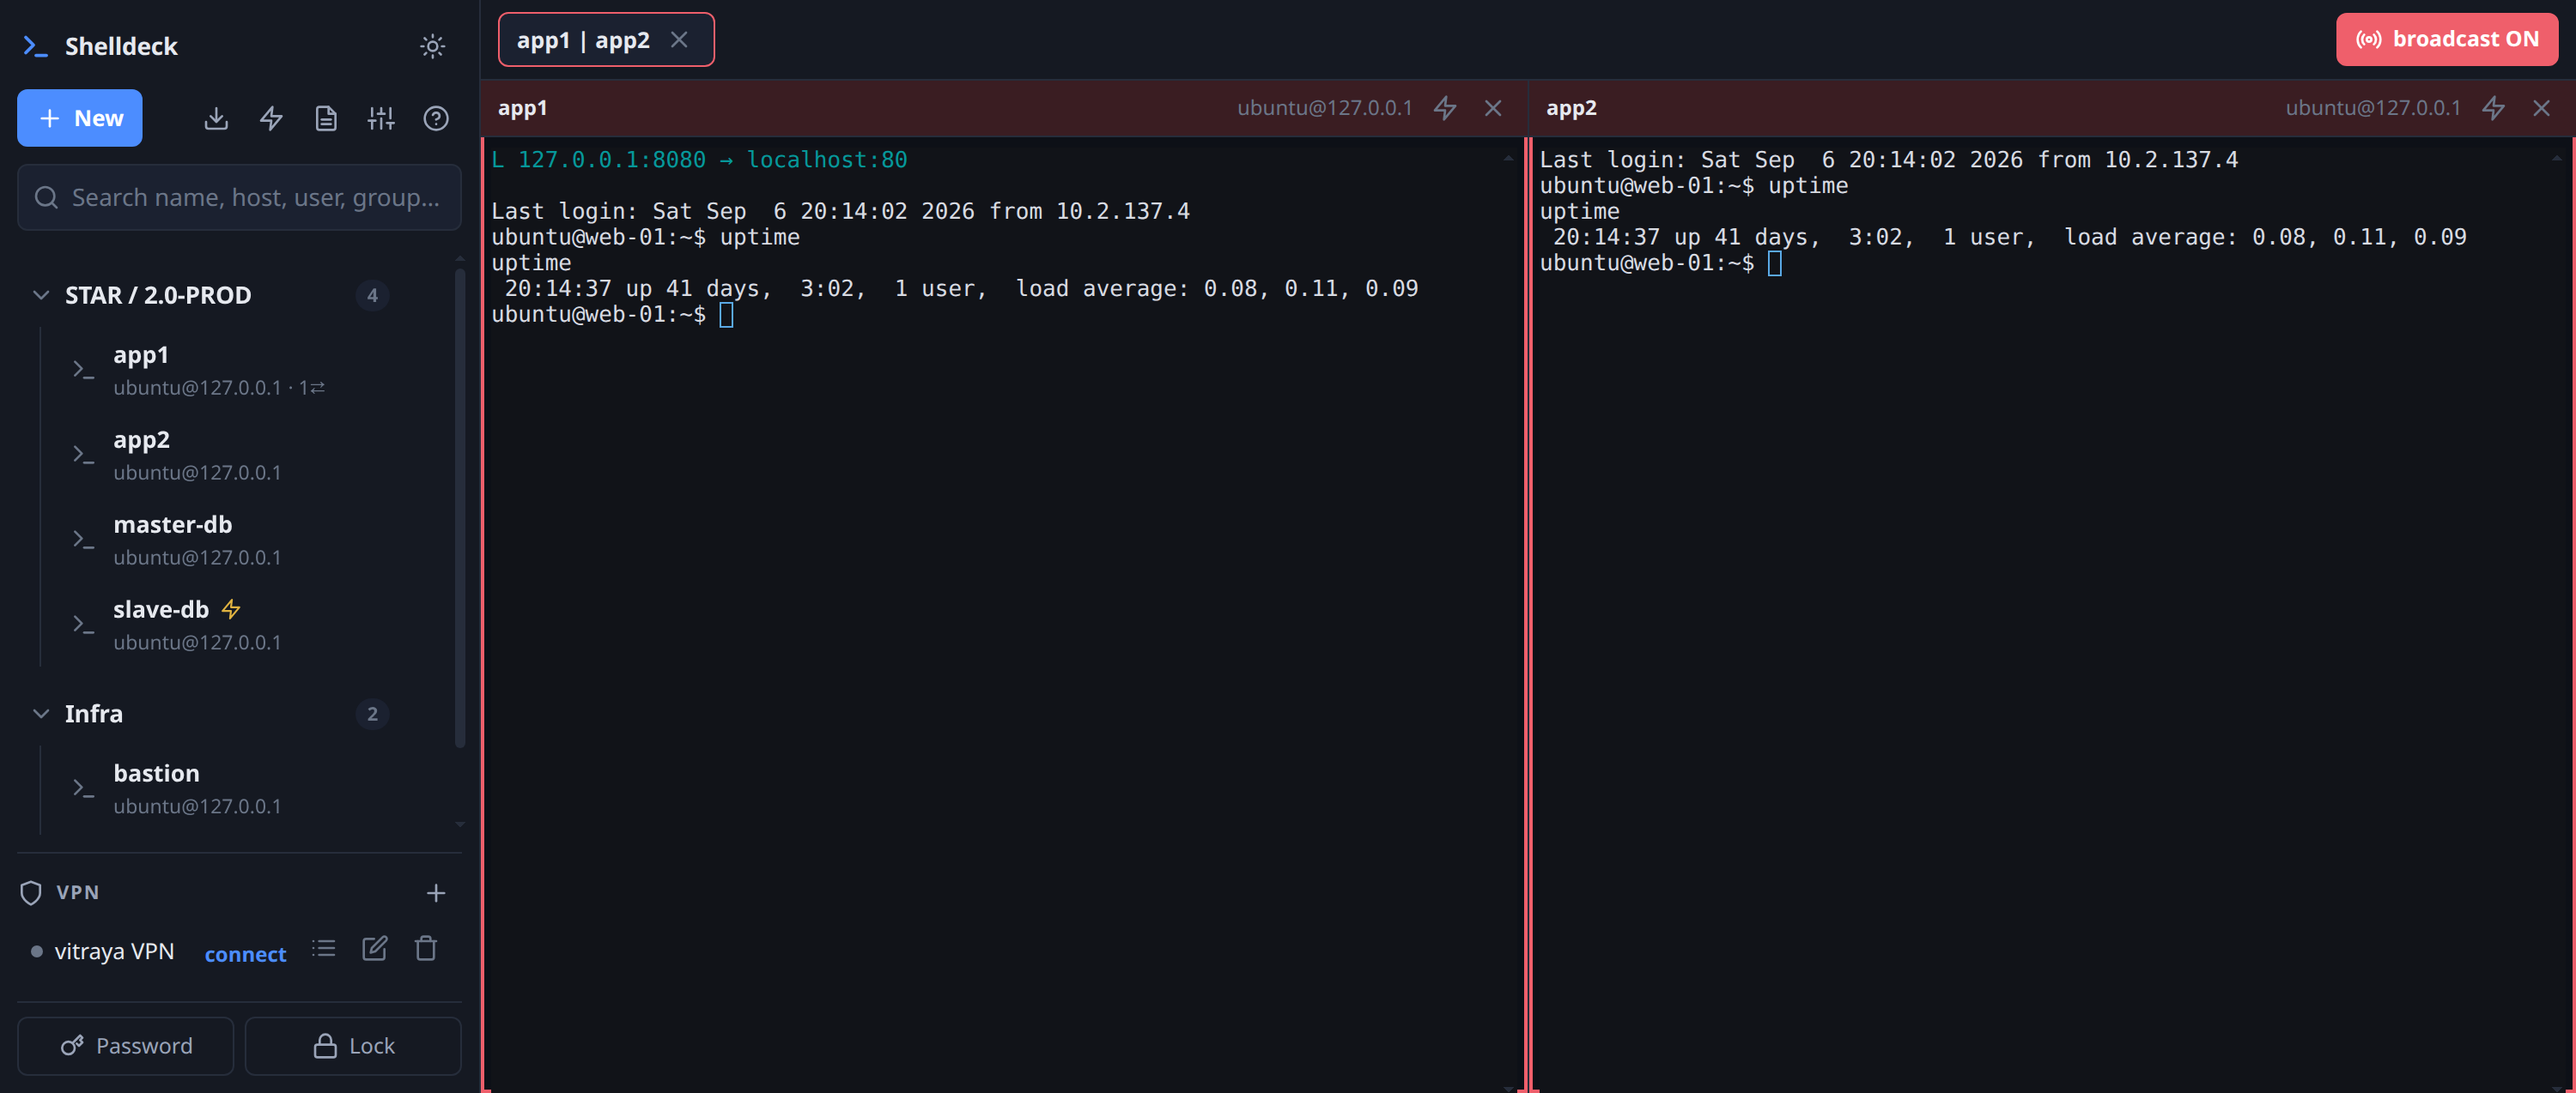
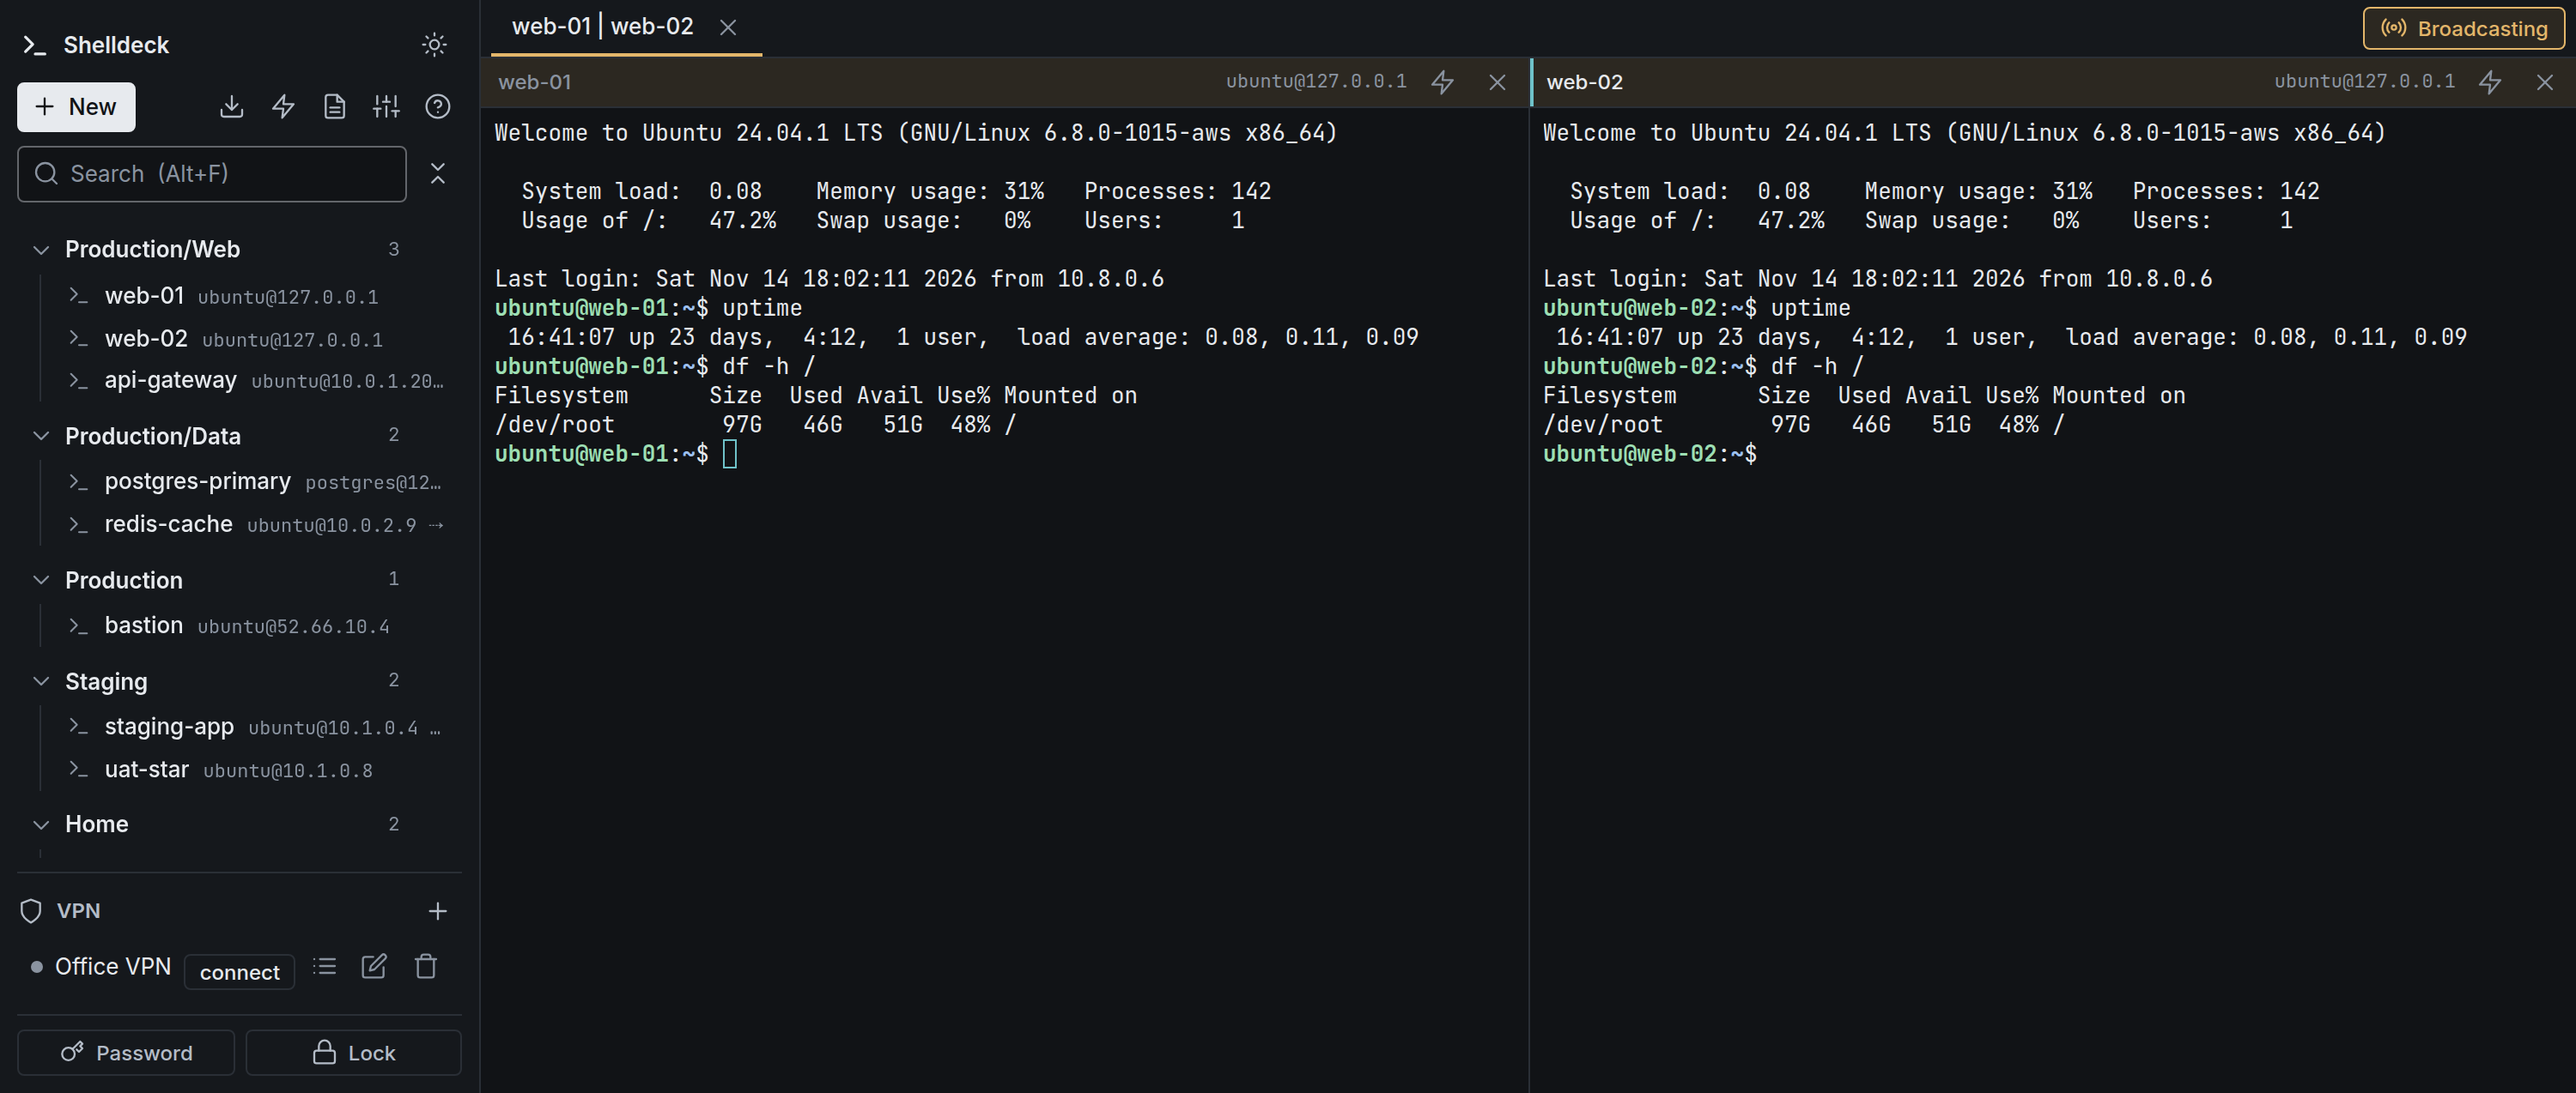
README: new screenshots, macOS and Windows in the next phase
Screenshots retaken with the new interface and bundled fonts. The
platform section and intro say Linux is released and the macOS and
Windows apps are planned for the next phase; a stars badge and a
closing request for a star.

Also: a long VPN profile name is truncated instead of running under
the Connect button.

diff --git a/shelldeck/static/app.js b/shelldeck/static/app.js
@@ -690,7 +690,7 @@ function renderVpn() {
     const on = active === "connected";
     const detail = vpnState.profile_id === v.id ? vpnState.detail : "";
     return `<div class="vpn" data-id="${v.id}">
-      <span class="vpn-name"><span class="dot ${active}"></span>${esc(v.name)}</span>
+      <span class="vpn-name"><span class="dot ${active}"></span><span>${esc(v.name)}</span></span>
       <span>
         <button class="vpn-go" data-id="${v.id}">${on || active === "connecting" ? "disconnect" : "connect"}</button>
         <button class="vpn-log" data-id="${v.id}" aria-label="VPN log for ${esc(v.name)}" title="Log">${icon("list")}</button>

diff --git a/README.md b/README.md
@@ -4,6 +4,7 @@
 [![Licence: MIT](https://img.shields.io/badge/licence-MIT-4c8dff)](LICENSE)
 [![Platform](https://img.shields.io/badge/platform-Linux-4c8dff)](#platform-support)
 [![Python](https://img.shields.io/badge/python-3.10%2B-4c8dff)](pyproject.toml)
+[![Stars](https://img.shields.io/github/stars/Gulshan07/shelldeck?style=social)](https://github.com/Gulshan07/shelldeck/stargazers)
 
 **A connection manager for SSH, SFTP, Telnet and serial consoles, with an
 encrypted vault and one-click VPN.**
@@ -12,6 +13,10 @@ Shelldeck keeps every server, key and credential you use in one place, opens
 them in tabs and split panes, and brings your VPN up with its two-factor code
 answered for you. It runs as a small local server and uses your browser as the
 interface, so there is nothing to compile and no desktop toolkit to install.
+
+**Available for Linux today. macOS and Windows apps are planned for the next
+phase.** If you find Shelldeck useful, please give it a ⭐ star: it helps other
+people find it.
 
 ![Shelldeck](docs/screenshot.png)
 
@@ -220,17 +225,19 @@ design decisions that look like flaws and are deliberate.
 
 ## Platform support
 
-Linux is the only platform released. Every build must pass
+Shelldeck is released for Linux. **macOS and Windows apps are planned for the
+next phase of development.** Every build must pass
 `packaging/smoke.py`, which launches the binary and checks that it serves its
 interface, bundles its assets and rejects an unauthenticated request.
 
 | Platform | Status |
 |---|---|
 | **Linux** | **Released.** Used daily on Ubuntu. AppImage provided. |
-| **macOS** | Code written, not released. macOS is POSIX, so the Linux code paths are expected to apply unchanged, but no build has been verified. A binary would be unsigned, so Gatekeeper will warn until it is signed. |
-| **Windows** | Code written, not released. The OS-specific paths exist (ACLs through `icacls`, binary-mode vault writes, administrator detection, OpenVPN located in `Program Files`) but have never run on Windows. The VPN will need the app run as Administrator. |
+| **macOS** | **Next phase.** Code written, not yet released. macOS is POSIX, so the Linux code paths are expected to apply unchanged, but no build has been verified. A binary would be unsigned, so Gatekeeper will warn until it is signed. |
+| **Windows** | **Next phase.** Code written, not yet released. The OS-specific paths exist (ACLs through `icacls`, binary-mode vault writes, administrator detection, OpenVPN located in `Program Files`) but have never run on Windows. The VPN will need the app run as Administrator. |
 
-Verifying either platform is the most useful contribution right now. See
+If you run macOS or Windows, testing a build is the most useful contribution
+right now. See
 [PACKAGING.md](PACKAGING.md) for build instructions and the manual checks.
 
 ## Development
@@ -289,4 +296,5 @@ Released under the [MIT Licence](LICENSE).
 
 ---
 
-If Shelldeck is useful to you, a star helps other people find it.
+If you like Shelldeck, please give it a ⭐ on GitHub. It helps other people
+find it, and it tells me the macOS and Windows apps are worth building next.
